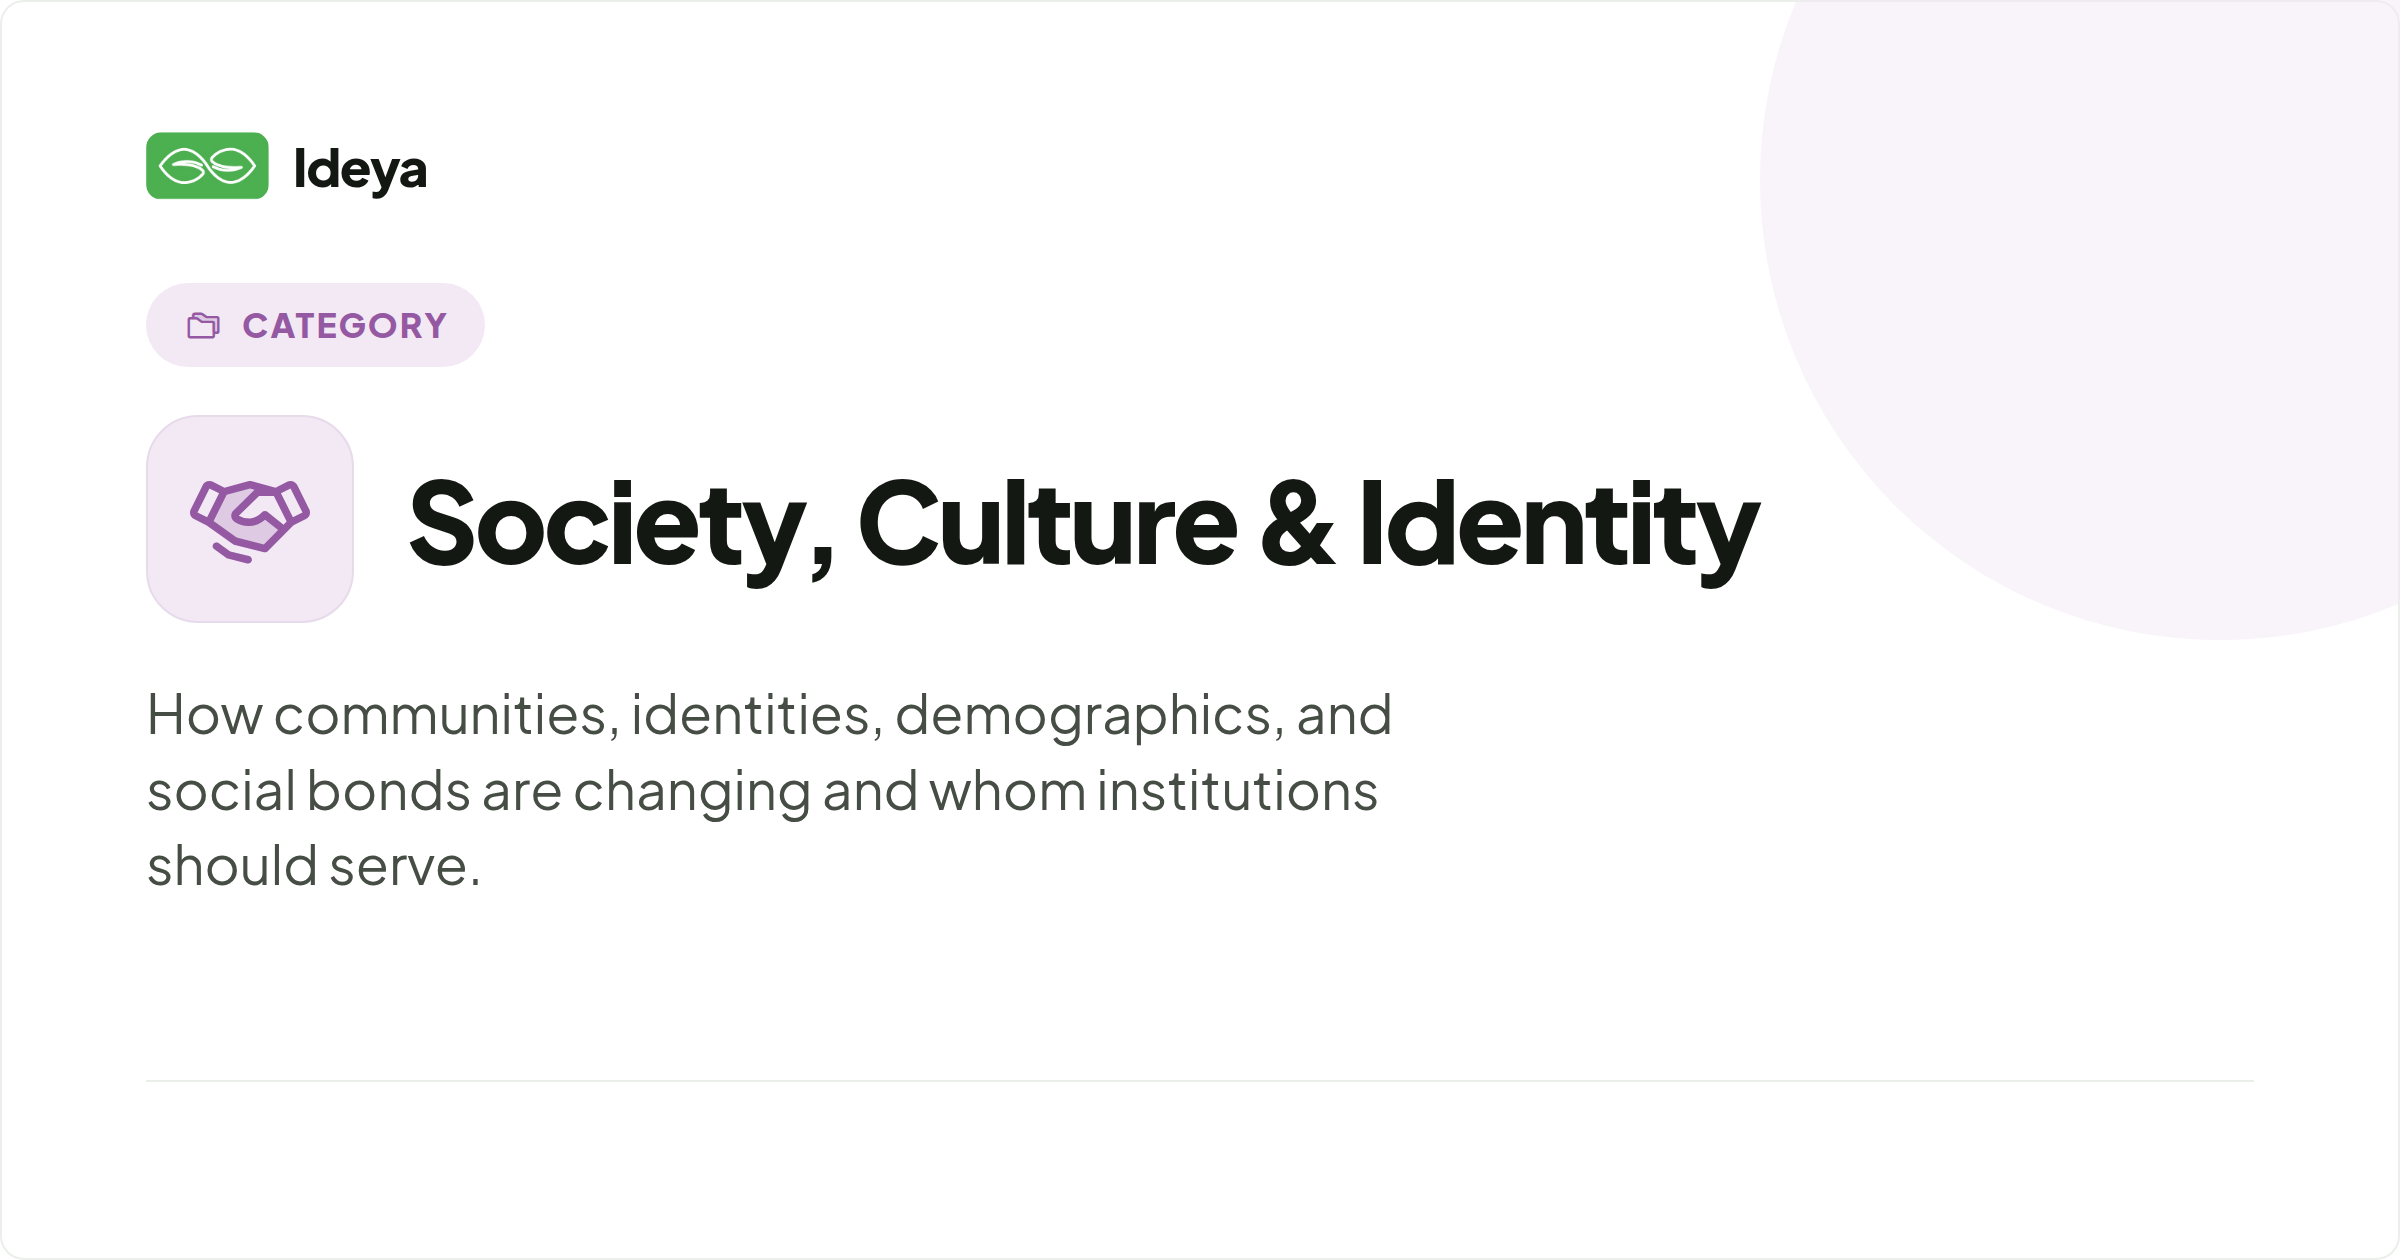
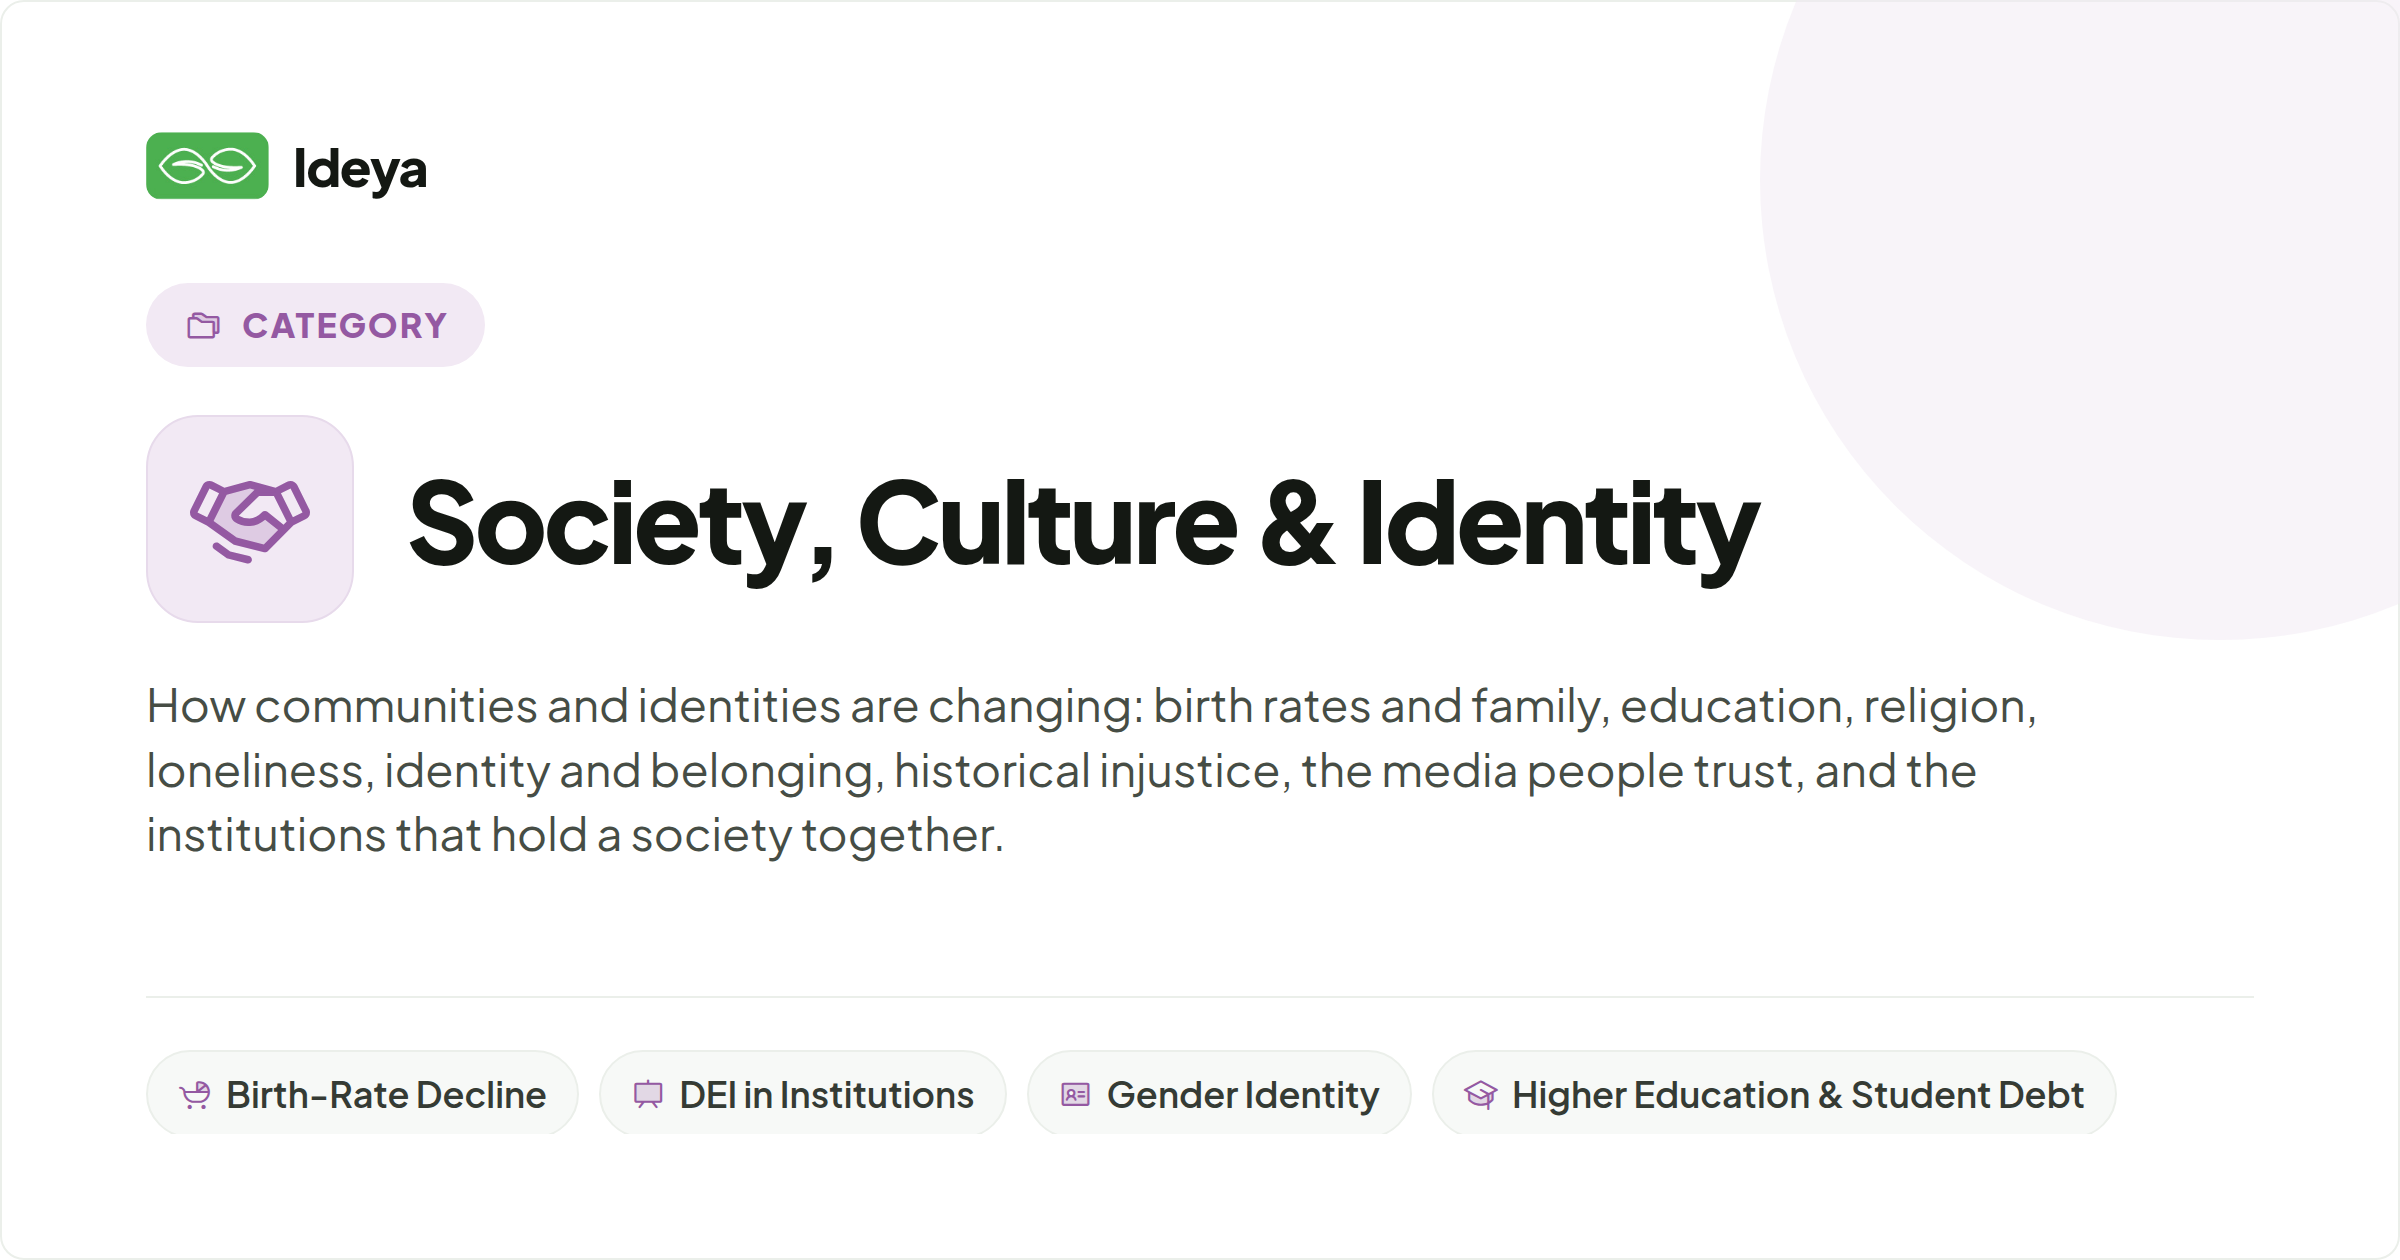
Categories list only their own topics; related chips only to published topics
A category page, the home directory, the menu counts and the category
share cards list a topic under its primary category only, so nothing
repeats and a category never sends a reader to a topic in another color.
Secondary categories stay as Connects to chips on the topic page, and
those chips now leave out topics that are not published.

Category share cards re-rendered (they were stale: old descriptions, no
topics); the description clamps to four lines so the topic row fits.
Home: spotlight art stacks above the title on phones, and two straight
apostrophes in the purpose copy become typographic.

diff --git a/templates/topics/category_share.html b/templates/topics/category_share.html
@@ -25,7 +25,7 @@
   .cicon{flex:none;width:104px;height:104px;border-radius:26px;background:var(--cat-tint);border:1px solid color-mix(in srgb,var(--cat) 22%,#fff);display:flex;align-items:center;justify-content:center;color:var(--cat)}
   .cicon i{font-size:60px}
   .cname{font-weight:800;font-size:56px;letter-spacing:-.035em;line-height:1.02;margin:0}
-  .cdesc{margin:26px 0 0;font-size:27px;line-height:1.4;color:var(--ink-600);max-width:32ch;text-wrap:pretty}
+  .cdesc{margin:24px 0 0;font-size:23px;line-height:1.4;color:var(--ink-600);max-width:58ch;text-wrap:pretty;display:-webkit-box;-webkit-box-orient:vertical;-webkit-line-clamp:4;overflow:hidden}
   .foot{margin-top:auto;display:flex;align-items:center;gap:16px;flex-wrap:wrap;padding-top:26px;border-top:1px solid var(--ink-100)}
   .tchips{display:flex;gap:10px;flex-wrap:wrap;overflow:hidden;max-height:42px}
   .tchip{display:inline-flex;align-items:center;gap:7px;font-size:18px;font-weight:600;color:var(--ink-700);background:var(--ink-50);border:1px solid var(--ink-100);border-radius:9999px;padding:7px 15px;white-space:nowrap}

diff --git a/templates/topics/home.html b/templates/topics/home.html
@@ -69,7 +69,7 @@
       <div class="wwh-card">
         <div class="num">02</div><div class="wi"><i class="ph-duotone ph-compass"></i></div>
         <h3>Why it exists</h3>
-        <p>Most coverage flattens hard issues into verdicts or drowns them in takes. Ideya takes no side: every position gets its strongest case, in its own voice — you can't honestly disagree with an argument you've only met at its weakest.</p>
+        <p>Most coverage flattens hard issues into verdicts or drowns them in takes. Ideya takes no side: every position gets its strongest case, in its own voice — you can’t honestly disagree with an argument you’ve only met at its weakest.</p>
       </div>
       <div class="wwh-card">
         <div class="num">03</div><div class="wi"><i class="ph-duotone ph-stack"></i></div>

diff --git a/static/css/ideya.css b/static/css/ideya.css
@@ -571,6 +571,7 @@ a.sp-cat:hover { text-decoration: none; box-shadow: inset 0 0 0 1px color-mix(in
 }
 @media (max-width: 640px) {
   .sp-lt { padding: 28px 24px; }
+  .sp-titlerow { flex-direction: column; align-items: flex-start; gap: 14px; }
   .sp-title { font-size: 34px; }
   .dir-head { flex-direction: column; align-items: flex-start; }
 }

diff --git a/topics/views.py b/topics/views.py
@@ -4,7 +4,7 @@ import qrcode.image.svg
 from django.conf import settings
 from django.contrib.contenttypes.models import ContentType
 from django.db import transaction
-from django.db.models import Case, F, Prefetch, When
+from django.db.models import F, Prefetch
 from django.http import Http404, HttpResponse, HttpResponseBadRequest
 from django.shortcuts import get_object_or_404, render
 from django.views.decorators.http import require_POST
@@ -267,13 +267,13 @@ def home(request):
     categories = []
     for cat in Category.objects.prefetch_related(
         Prefetch(
-            "topics",
+            "primary_topics",
             queryset=_authored(Topic.published.select_related("primary_category")),
         )
     ):
         # Include every category so the directory is genuinely complete; empty
         # ones render as browsable "coming soon" cards into their category page.
-        categories.append({"category": cat, "topics": list(cat.topics.all())})
+        categories.append({"category": cat, "topics": list(cat.primary_topics.all())})
     # Populated categories lead; the not-yet-mapped ones cluster at the end.
     categories.sort(key=lambda g: 0 if g["topics"] else 1)
 
@@ -326,16 +326,16 @@ def topic_detail(request, slug):
         slug=slug,
     )
     # Drafts render in full for staff/DEBUG previews; the public gets the
-    # coming-soon stub treatment (no sections, noindex) instead of a 404 —
-    # related chips on published topics link to drafts as teasers.
+    # coming-soon stub treatment (no sections, noindex) instead of a 404.
     can_preview = settings.DEBUG or request.user.is_staff
     if topic.status != Topic.PUBLISHED and not can_preview:
         sections = []
     else:
         sections = _ordered_sections("topic", topic)
-    related = topic.outgoing_edges.select_related(
-        "target", "target__primary_category"
-    ).all()
+    # Related chips link only to published topics.
+    related = topic.outgoing_edges.filter(
+        target__status=Topic.PUBLISHED
+    ).select_related("target", "target__primary_category")
     if request.user.is_authenticated:
         who = {"user": request.user}
     else:
@@ -388,10 +388,12 @@ def category_detail(request, slug):
     category = get_object_or_404(
         Category.objects.prefetch_related("connects_to"), slug=slug
     )
-    # Topics whose home this is come first, cross-listed ones after.
+    # A category lists only the topics whose primary category it is.
     topics = _authored(
-        category.topics(manager="published").select_related("primary_category")
-    ).order_by(Case(When(primary_category=category, then=0), default=1), "title")
+        category.primary_topics(manager="published").select_related(
+            "primary_category"
+        )
+    )
     return render(
         request,
         "topics/category.html",
@@ -421,7 +423,9 @@ def category_share(request, slug):
     category = get_object_or_404(Category, slug=slug)
     topics = list(
         _authored(
-            category.topics(manager="published").select_related("primary_category")
+            category.primary_topics(manager="published").select_related(
+                "primary_category"
+            )
         )[:6]
     )
     return render(

diff --git a/topics/context_processors.py b/topics/context_processors.py
@@ -11,6 +11,8 @@ def navigation(request):
     return {
         "origin": settings.PUBLIC_ORIGIN or f"{request.scheme}://{request.get_host()}",
         "nav_categories": Category.objects.annotate(
-            num_topics=Count("topics", filter=Q(topics__status="published"))
+            num_topics=Count(
+                "primary_topics", filter=Q(primary_topics__status="published")
+            )
         ),
     }

diff --git a/topics/models.py b/topics/models.py
@@ -86,7 +86,7 @@ class Category(models.Model):
     @property
     def topic_count(self) -> int:
         """Published topics only: the number readers see on the category page."""
-        return self.topics.filter(status=Topic.PUBLISHED).count()
+        return self.primary_topics.filter(status=Topic.PUBLISHED).count()
 
     @property
     def social_card(self):
